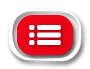
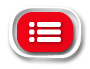
added share button sprite

diff --git a/Classes/crimson/layers/LevelFinishedLayer.cpp b/Classes/crimson/layers/LevelFinishedLayer.cpp
@@ -27,13 +27,19 @@ LevelFinishedLayer::LevelFinishedLayer(GameModel* model, float x, float y, float
 
 	this->addChild(placaGameOver);
 
-	cocos2d::CCSprite* menuButtonSprite = SpriteUtil::create("buttons/menu_button.png", visibleSize.width * 0.2, visibleSize.height * 0.15, title);
+	cocos2d::CCSprite* menuButtonSprite = SpriteUtil::create("buttons/menu_icon_button.png", visibleSize.width * 0.2, visibleSize.height * 0.18, title);
 	SpriteUtil::leftAlign(this->title, menuButtonSprite);
-
 	this->addChild(menuButtonSprite);
 
+	cocos2d::CCSprite* shareButtonSprite = SpriteUtil::create("buttons/share_button.png", visibleSize.width * 0.2, visibleSize.height * 0.18, title);
+	SpriteUtil::topAlign(menuButtonSprite, shareButtonSprite);
+	SpriteUtil::rightAlign(this->title, shareButtonSprite);
+	this->addChild(shareButtonSprite);
+
+
 	if (!survival && level != LEVEL_COUNT) {
-		cocos2d::CCSprite* nextLevelSprite = SpriteUtil::create("buttons/next_button.png", visibleSize.width * 0.64, visibleSize.height * 0.15, menuButtonSprite);
+		cocos2d::CCSprite* nextLevelSprite = SpriteUtil::create("buttons/next_button.png", visibleSize.width * 0.64, visibleSize.height * 0.18, menuButtonSprite);
+		SpriteUtil::topAlign(menuButtonSprite, nextLevelSprite);
 		this->addChild(nextLevelSprite);
 		this->nextLevelButton = new NextLevelButton(nextLevelSprite, level + 1);
 	} else {
@@ -45,17 +51,18 @@ LevelFinishedLayer::LevelFinishedLayer(GameModel* model, float x, float y, float
 	cocos2d::CCSprite* tryAgainButtonSprite = NULL;
 
 	if (survival) {
-		tryAgainButtonSprite = SpriteUtil::create("buttons/try_again_button.png", visibleSize.width * 0.58, visibleSize.height * 0.15, title);
+		tryAgainButtonSprite = SpriteUtil::create("buttons/try_again_button.png", visibleSize.width * 0.58, visibleSize.height * 0.18, title);
 	} else {
-		tryAgainButtonSprite = SpriteUtil::create("buttons/try_again_button.png", visibleSize.width * 0.55, visibleSize.height * 0.15, title);
+		tryAgainButtonSprite = SpriteUtil::create("buttons/try_again_button.png", visibleSize.width * 0.55, visibleSize.height * 0.18, title);
 	}
 
+	SpriteUtil::topAlign(menuButtonSprite, tryAgainButtonSprite);
 	this->addChild(tryAgainButtonSprite);
 	this->tryAgainButton = new RestartSurvivalButton(model, tryAgainButtonSprite);
 
 	cocos2d::CCSprite* equipPandaButtonSprite = SpriteUtil::create("buttons/equip_panda_button.png", visibleSize.width * 0.2, visibleSize.height * 0.15, title);
-	SpriteUtil::rightAlign(this->title, equipPandaButtonSprite);
-
+	equipPandaButtonSprite->setPositionX(menuButtonSprite->getPositionX() + SpriteUtil::getWidth(menuButtonSprite)*0.95);
+	SpriteUtil::topAlign(menuButtonSprite, equipPandaButtonSprite);
 	this->addChild(equipPandaButtonSprite);
 	this->equipPandaButton = new EquipPandaButton(equipPandaButtonSprite);
 

diff --git a/Classes/crimson/buttons/ShareButton.h b/Classes/crimson/buttons/ShareButton.h
@@ -1,0 +1,15 @@
+#ifndef CRIMSON_BUTTONS_SHAREBUTTON_H_
+#define CRIMSON_BUTTONS_SHAREBUTTON_H_
+
+#include "../../dxco/Button.h"
+
+namespace dxco {
+
+class ShareButton: public ButtonDxCo {
+public:
+	ShareButton();
+};
+
+} /* namespace dxco */
+
+#endif /* CRIMSON_BUTTONS_SHAREBUTTON_H_ */

diff --git a/Classes/crimson/buttons/ShareButton.cpp b/Classes/crimson/buttons/ShareButton.cpp
@@ -1,0 +1,10 @@
+#include "ShareButton.h"
+
+namespace dxco {
+
+ShareButton::ShareButton() {
+	this->on();
+
+}
+
+} /* namespace dxco */
